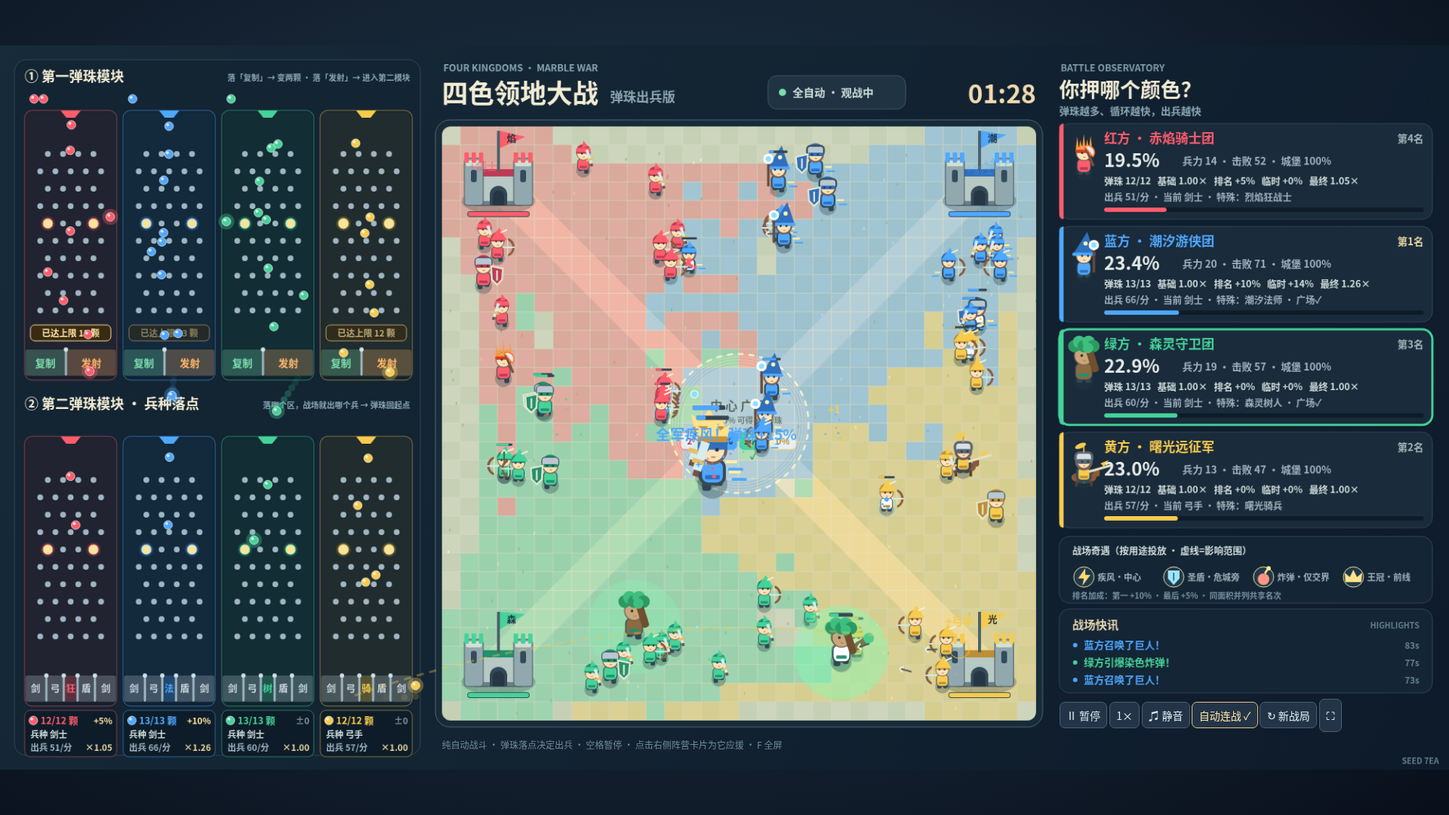
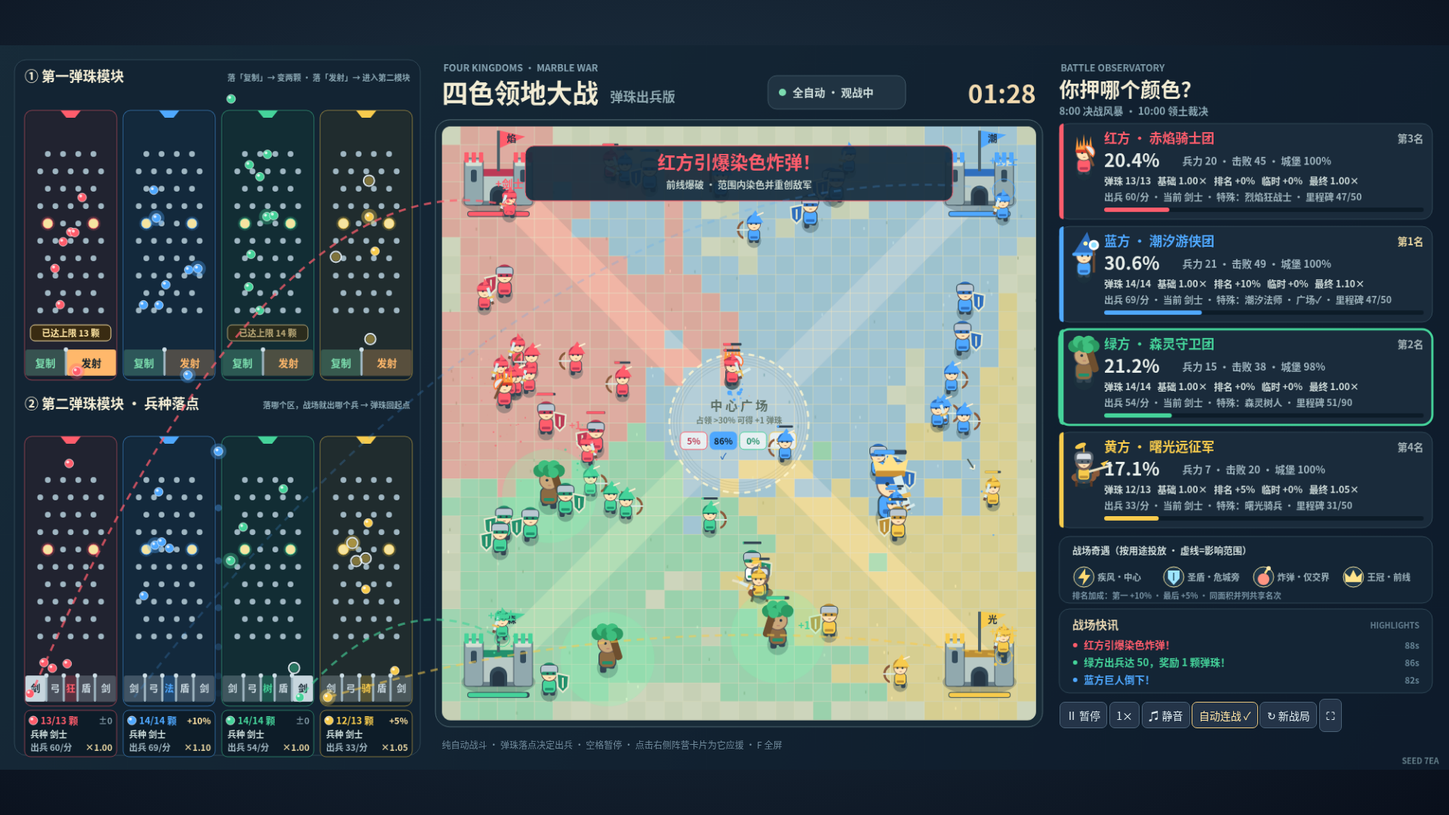
复制冷却、出兵里程碑奖励、决战风暴改到8分钟/裁决10分钟、重新平衡

diff --git a/index.html b/index.html
@@ -14,14 +14,14 @@ const HOME=[[78,78],[742,78],[78,742],[742,742]];
 // ---- Unit roster: 0 剑士 1 弓手 2 盾卫 3 巨人(王冠召唤) 4 = faction special ----
 const TNAME=['剑士','弓手','盾卫','巨人'];
 const SP=[
- {name:'烈焰狂战士',short:'狂战士',hp:80,v:50,dmg:15,range:24,detect:112,cd:.6,desc:'近战 · 溅射灼烧周围敌人'},
- {name:'潮汐法师',short:'法师',hp:44,v:37,dmg:12,range:150,detect:175,cd:1.1,desc:'远程 · 水弹命中减速 45%'},
- {name:'森灵树人',short:'树人',hp:150,v:24,dmg:9,range:26,detect:112,cd:.9,desc:'重装 · 治疗光环 3/秒(不叠加)'},
+ {name:'烈焰狂战士',short:'狂战士',hp:76,v:50,dmg:14,range:24,detect:112,cd:.6,desc:'近战 · 溅射灼烧周围敌人'},
+ {name:'潮汐法师',short:'法师',hp:54,v:38,dmg:14,range:155,detect:178,cd:1.1,desc:'远程 · 水弹命中减速 45%'},
+ {name:'森灵树人',short:'树人',hp:160,v:24,dmg:9,range:26,detect:112,cd:.9,desc:'重装 · 治疗光环 3.2/秒(不叠加)'},
  {name:'曙光骑兵',short:'骑兵',hp:95,v:60,dmg:15,range:24,detect:112,cd:.8,desc:'突击 · 攻城×1.7 · 大范围染色'}];
 function unitName(f,t){return t===4?SP[f].short:TNAME[t]}
 // ---- Marble machine constants (identical geometry for every faction lane = fair) ----
 const LW=127,BR=6,GRAV=1150,VMAX=460,MOD_Y=[70,520],BIN_Y=330,BIN_B=366,PORTX=63.5,PORTY=14,LAUNCH_GAP=.42;
-const HEAL=3,BALL_CAP=12,TEMP_CAP=.30,TEMP_DECAY=.02,PLAZA_R=96,PLAZA_NEED=.30;
+const STORM=480,VERDICT=600,MILES=[20,50,90],HEAL=3,BALL_CAP=12,TEMP_CAP=.30,TEMP_DECAY=.02,PLAZA_R=96,PLAZA_NEED=.30;
 const M1_DIV=[57],M1_NAME=['复制','发射'];
 const M2_DIV=[30,54,73,97],M2_TYPES=[0,1,4,2,0];
 const PEGS=[],ROWS=[];for(let r=0;r<10;r++){ROWS[r]=[];let y=60+r*24,odd=r%2;for(let k=(odd?0:1);k<(odd?5:5);k++){let x=odd?21.5+k*21:11+k*21,bump=r===4&&(k===1||k===4);let p={x,y,r:bump?7:4,bump};PEGS.push(p);ROWS[r].push(p)}}
@@ -40,14 +40,14 @@ function sound(f=440,d=.08,type='sine'){if(muted)return;try{audio ||= new (windo
 function burst(x,y,c,n=12,big=1){for(let i=0;i<n;i++){let a=rng()*6.28,v=(25+rng()*85)*big;particles.push({x,y,vx:Math.cos(a)*v,vy:Math.sin(a)*v,life:.35+rng()*.5,max:1,c,r:2+rng()*3})}}
 function floating(s,x,y,c='#fff',size=18,panel=false){floats.push({s,x,y,c,size,life:1.3,panel})}
 function announce(s,c='#f5ce64',sub=''){banner={s,c,sub,life:3.2};feed.unshift({s,c,t:time});feed=feed.slice(0,6)}
-function logEvent(e){e.t=time;events.push(e);if(events.length>6000)events.shift()}
+function logEvent(e){e.t=time;events.push(e);if(events.length>60000)events.shift()}
 function paint(x,y,f,r=0){let tx=Math.floor(x/T),ty=Math.floor(y/T);for(let dy=-r;dy<=r;dy++)for(let dx=-r;dx<=r;dx++){let a=tx+dx,b=ty+dy;if(a>=0&&b>=0&&a<N&&b<N&&(r===0||dx*dx+dy*dy<=r*r))tiles[b*N+a]=f}}
 function spawn(f,t){if(!teams[f].alive)return null;if(t===undefined)t=pick([0,0,0,1,1,2]);let [x,y]=HOME[f],a=rng()*6.28,s=t===4?SP[f]:null;
 let hp=s?s.hp:[58,38,130,600][t];let u={id:uid++,f,t,x:x+Math.cos(a)*35,y:y+Math.sin(a)*35,hp,max:hp,v:(s?s.v:[42,40,28,26][t])*(.9+rng()*.2),damage:s?s.dmg:[15,11,12,38][t],cd:rng(),phase:rng()*6.28,face:f%2?-1:1,hit:0,swing:0,boost:0,shield:0,slow:0,route:120+rng()*70,goal:null};units.push(u);return u}
 function shuffleBag(){let a=[0,1,2,3];for(let i=3;i>0;i--){let j=Math.floor(rng()*(i+1));[a[i],a[j]]=[a[j],a[i]]}return a}
-function newBall(f){return{f,st:'wait',x:PORTX,y:PORTY,vx:0,vy:0,still:0,age:0,trail:[]}}
+let bid=0;function newBall(f){return{id:bid++,f,st:'wait',x:PORTX,y:PORTY,vx:0,vy:0,still:0,age:0,trail:[]}}
 function reset(s){seed=s??(Date.now()^Math.random()*1e9);state=seed>>>0;units=[];arrows=[];particles=[];floats=[];powers=[];feed=[];beams=[];events=[];bombLog=[];powerBag=[];shieldTurn=0;tiles=new Int8Array(N*N).fill(-1);
-teams=C.map((c,f)=>({f,hp:1550,max:1550,alive:true,land:0,count:0,kills:0,bosses:0,peak:0,comeback:false,cap:BALL_CAP,temp:0,rankBonus:0,rank:1,tie:false,launchCd:f*.1,spawnLog:[],spawned:0,lastType:-1,dups:0,launches:0,plazaBonus:false,plaza:0,capFlash:0,byType:[0,0,0,0,0]}));
+teams=C.map((c,f)=>({f,hp:1550,max:1550,alive:true,land:0,count:0,kills:0,bosses:0,peak:0,comeback:false,cap:BALL_CAP,temp:0,rankBonus:0,rank:1,tie:false,launchCd:f*.1,spawnLog:[],spawned:0,lastType:-1,dups:0,launches:0,plazaBonus:false,miles:0,coolHits:0,plaza:0,capFlash:0,byType:[0,0,0,0,0]}));
 balls=[];for(let f=0;f<4;f++){balls.push(newBall(f),newBall(f))}
 time=0;powerClock=5;mode='intro';intro=4;winner=-1;winClock=0;banner=null;shake=0;paused=false;document.getElementById('pause').textContent='Ⅱ 暂停';
 // Identical starting army for every faction (fair); later troops come only from marbles.
@@ -58,7 +58,7 @@ function census(){for(let t of teams){t.land=0;t.count=0;t.plaza=0}for(let v of 
 function ranking(){let alive=teams.filter(t=>t.alive);for(let t of teams){t.rankBonus=0;t.rank=1+alive.filter(o=>o.land>t.land).length;t.tie=alive.some(o=>o!==t&&o.land===t.land)}if(alive.length<2)return;let mx=Math.max(...alive.map(t=>t.land)),mn=Math.min(...alive.map(t=>t.land));if(mx===mn)return;for(let t of alive){if(t.land===mx)t.rankBonus=.10;else if(t.land===mn)t.rankBonus=.05}}
 function mult(f){let t=teams[f];return(1+t.rankBonus)*(1+t.temp)}
 function damage(u,d,f){if(u.hp<=0)return;u.hp-=d*(u.shield>0?.32:1);u.hit=.15;u.swing=.1;if(u.hp<=0){teams[f].kills++;burst(u.x,u.y,C[u.f],u.t===3?35:8,u.t===3?2:1);if(rng()<.18)floating('+1',u.x,u.y,C[f],14);if(u.t===3){shake=9;announce(NAME[u.f]+'方巨人倒下！',C[u.f])}}}
-function baseDamage(f,d,attacker){let t=teams[f];if(!t.alive)return;t.hp-=d;if(t.hp<=0)eliminate(f,attacker)}
+let noBaseDamage=false;function baseDamage(f,d,attacker){let t=teams[f];if(!t.alive)return;if(noBaseDamage&&(attacker!==-1||noBaseDamage==='all'))return;t.hp-=d;if(t.hp<=0)eliminate(f,attacker)}
 function eliminate(f,attacker){let t=teams[f];if(!t.alive)return;t.alive=false;t.hp=0;for(let i=0;i<tiles.length;i++)if(tiles[i]===f)tiles[i]=-1;for(let u of units)if(u.f===f){u.hp=0;burst(u.x,u.y,C[f],5)}balls=balls.filter(b=>b.f!==f);burst(...HOME[f],C[f],80,2.5);shake=16;announce(NAME[f]+'方出局！',C[f],'城堡已被攻破 · 领地归于中立 · 弹珠熄灭');sound(120,.5,'sawtooth');}
 // ---- Power placement by purpose ----
 const DIRS=[[1,0],[-1,0],[0,1],[0,-1]];
@@ -92,13 +92,13 @@ function moveTo(b,tx,ty,dur,next,kind){let [x,y]=panelPos(b);b.px=x;b.py=y;b.ax=
 function toPort(b,kind){moveTo(b,laneX(b.f)+PORTX,MOD_Y[0]-16,kind==='return'?.8:.45,'wait',kind)}
 function launchBall(b,mod){b.st='m'+(mod+1);b.mod=mod;b.x=PORTX+(rng()-.5)*6;b.y=PORTY;b.vx=(rng()-.5)*90;b.vy=40;b.still=0;b.age=0}
 function landed(b,bin){let t=teams[b.f],f=b.f;b.st='land';b.bin=bin;b.lt=.22;b.lx=b.x;
- if(b.mod===0){if(bin===0){let before=balls.filter(o=>o.f===f).length;if(before<t.cap){let nb=newBall(f);nb.st='land';nb.mod=0;nb.x=b.x;nb.y=b.y;nb.lt=.22;nb.bin=0;nb.child=true;balls.push(nb);t.dups++;floating('复制 +1',laneX(f)+b.x,MOD_Y[0]+BIN_Y-10,C[f],16,true);sound(900,.06)}else{t.capFlash=1.6}logEvent({kind:'dup',f,x:b.x,bin,before,after:balls.filter(o=>o.f===f).length,cap:t.cap})}
+ if(b.mod===0){if(bin===0&&b.cool){t.coolHits++;floating('冷却中',laneX(f)+b.x,MOD_Y[0]+BIN_Y-10,'#9fb6c2',13,true);logEvent({kind:'coolBlock',id:b.id,f,x:b.x,bin,balls:balls.filter(o=>o.f===f).length})}else if(bin===0){t._lastChild=null;let before=balls.filter(o=>o.f===f).length;if(before<t.cap){b.cool=true;let nb=newBall(f);nb.st='land';nb.mod=0;nb.x=b.x;nb.y=b.y;nb.lt=.22;nb.bin=0;nb.child=true;nb.cool=true;t._lastChild=nb.id;balls.push(nb);t.dups++;floating('复制 +1',laneX(f)+b.x,MOD_Y[0]+BIN_Y-10,C[f],16,true);sound(900,.06)}else{t.capFlash=1.6}logEvent({kind:'dup',id:b.id,child:t._lastChild,f,x:b.x,bin,cool:!!b.cool,before,after:balls.filter(o=>o.f===f).length,cap:t.cap})}
   else{t.launches++;logEvent({kind:'launch',f,x:b.x,bin,units:units.filter(u=>u.f===f).length,balls:balls.filter(o=>o.f===f).length})}}
- else{let type=M2_TYPES[bin];spawnFromMarble(f,type,b)}}
+ else{let type=M2_TYPES[bin];let wasCool=!!b.cool;b.cool=false;spawnFromMarble(f,type,b);if(wasCool)logEvent({kind:'coolClear',id:b.id,f})}}
 function spawnFromMarble(f,type,b){let t=teams[f],capUnits=time>110?25:32,before=units.filter(u=>u.f===f&&u.hp>0).length,u=null;let [px,py]=[laneX(f)+b.x,MOD_Y[1]+BIN_B-6];
- if(t.alive&&before<capUnits){u=spawn(f,type);t.spawned++;t.spawnLog.push(time);t.byType[type]++;t.count++;beams.push({f,x:px,y:py,mx:u.x,my:u.y,life:.75,type});burst(u.x,u.y,C[f],10);floating('+'+unitName(f,type),u.x,u.y-22,C[f],15)}
+ if(t.alive&&before<capUnits){u=spawn(f,type);t.spawned++;if(MILES.includes(t.spawned)){t.cap++;t.miles++;let nb=newBall(f);nb.flash=2;balls.push(nb);announce(NAME[f]+'方出兵达 '+t.spawned+'，奖励 1 颗弹珠！',C[f],'里程碑奖励 · 弹珠上限 +1');logEvent({kind:'mile',f,n:t.spawned,balls:balls.filter(o=>o.f===f).length,cap:t.cap})}t.spawnLog.push(time);t.byType[type]++;t.count++;beams.push({f,x:px,y:py,mx:u.x,my:u.y,life:.75,type});burst(u.x,u.y,C[f],10);floating('+'+unitName(f,type),u.x,u.y-22,C[f],15)}
  else floating('兵力已满',px,py-30,'#ffe6a3',13,true);
- t.lastType=type;logEvent({kind:'spawn',f,x:b.x,bin:b.bin,type,before,after:units.filter(v=>v.f===f&&v.hp>0).length,spawned:!!u})}
+ t.lastType=type;logEvent({kind:'spawn',id:b.id,f,x:b.x,bin:b.bin,type,before,after:units.filter(v=>v.f===f&&v.hp>0).length,spawned:!!u})}
 function updateMarbles(dt){for(let t of teams){if(!t.alive)continue;t.temp=Math.max(0,t.temp-TEMP_DECAY*dt);t.capFlash-=dt;t.spawnLog=t.spawnLog.filter(s=>time-s<20);t.launchCd-=dt*mult(t.f);if(t.launchCd<=0){let w=balls.find(b=>b.f===t.f&&b.st==='wait');if(w){launchBall(w,0);t.launchCd=LAUNCH_GAP}else t.launchCd=0}}
  for(let b of [...balls]){let h=dt*mult(b.f);b.flash=(b.flash||0)-dt;
   if(b.st==='m1'||b.st==='m2'){b.age+=h;let [ox,oy]=[b.x,b.y];let bin=physics(b,h,b.mod?M2_DIV:M1_DIV);
@@ -112,8 +112,8 @@ function updateMarbles(dt){for(let t of teams){if(!t.alive)continue;t.temp=Math.
 function movePos(b,k){if(b.kind==='return'||b.kind==='dupReturn'){let rail=laneX(b.f)+LW+4.5;if(k<.15){let e=k/.15;b.px=b.ax+(rail-b.ax)*e;b.py=b.ay}else if(k<.85){let e=(k-.15)/.7;b.px=rail;b.py=b.ay+(b.by-b.ay)*e*e*(3-2*e)}else{let e=(k-.85)/.15;b.px=rail+(b.bx-rail)*e;b.py=b.by}}else{let e=k*k*(3-2*k);b.px=b.ax+(b.bx-b.ax)*e;b.py=b.ay+(b.by-b.ay)*e}}
 function plazaCheck(){let n=PLAZA.length;for(let t of teams){if(!t.alive||t.plazaBonus)continue;if(t.plaza/n>PLAZA_NEED){t.plazaBonus=true;t.cap+=1;let nb=newBall(t.f);balls.push(nb);nb.flash=2;logEvent({kind:'plaza',f:t.f,share:t.plaza/n,balls:balls.filter(b=>b.f===t.f).length});announce(NAME[t.f]+'方占领中心广场！',C[t.f],'永久获得 +1 颗弹珠（每局限一次）');burst(410,410,C[t.f],40,1.8);sound(990,.3,'triangle')}}}
 function update(dt){if(paused)return;if(mode==='intro'){intro-=dt;if(intro<=0){mode='battle';announce('四王之争 · 开战！','#f5ce64','弹珠落点决定兵种 → 占领地盘 → 攻破城堡')}return}if(mode==='win'){winClock+=dt;effects(dt);if(auto&&winClock>10)reset();return}
-time+=dt;noiseClock-=dt;census();ranking();plazaCheck();updateMarbles(dt);let alive=teams.filter(t=>t.alive);for(let t of alive){t.peak=Math.max(t.peak,t.land);if(t.peak>240&&t.land<t.peak*.5)t.comeback=true;if(t.comeback&&t.land>t.peak*.85){announce(NAME[t.f]+'方大逆转！',C[t.f],'绝境反击 · 领土重回巅峰');t.comeback=false}if(time>100){let lead=Math.max(...alive.map(a=>a.land));let pressure=(time-100)*1.25*(.65+(lead-t.land)/900);baseDamage(t.f,dt*pressure,-1)}}
-if(time>=165){let candidates=teams.filter(t=>t.alive).sort((a,b)=>(b.hp+b.land*2+b.count*7)-(a.hp+a.land*2+a.count*7));if(candidates.length>1){for(let i=1;i<candidates.length;i++)eliminate(candidates[i].f,candidates[0].f)}}
+time+=dt;noiseClock-=dt;census();ranking();plazaCheck();updateMarbles(dt);let alive=teams.filter(t=>t.alive);for(let t of alive){t.peak=Math.max(t.peak,t.land);if(t.peak>240&&t.land<t.peak*.5)t.comeback=true;if(t.comeback&&t.land>t.peak*.85){announce(NAME[t.f]+'方大逆转！',C[t.f],'绝境反击 · 领土重回巅峰');t.comeback=false}if(time>STORM){let lead=Math.max(...alive.map(a=>a.land));let pressure=(time-STORM)*1.25*(.65+(lead-t.land)/900);baseDamage(t.f,dt*pressure,-1)}}
+if(time>=VERDICT){let candidates=teams.filter(t=>t.alive).sort((a,b)=>(b.hp+b.land*2+b.count*7)-(a.hp+a.land*2+a.count*7));if(candidates.length>1){for(let i=1;i<candidates.length;i++)eliminate(candidates[i].f,candidates[0].f)}}
 powerClock-=dt;if(powerClock<=0&&powers.length<5){spawnPower();powerClock=5+rng()*3}for(let p of powers)p.life-=dt;powers=powers.filter(p=>p.life>0);
 // Spatial buckets keep combat smooth even on modest laptops.
 const buckets=new Map();for(let u of units){if(u.hp<=0)continue;let k=(u.x/100|0)+','+(u.y/100|0);if(!buckets.has(k))buckets.set(k,[]);buckets.get(k).push(u)}
@@ -125,12 +125,12 @@ let power=powers.reduce((a,b)=>!a||dist(u,b)<dist(u,a)?b:a,null);
 let goal;if(target){goal=target}else if(power&&dist(u,power)<200){goal=power}else if(bd<160||time>85){goal=basePoint}else{if(!u.goal||dist(u,u.goal)<25||rng()<dt*.1){let angle=rng()*6.28;u.goal={x:410+Math.cos(angle)*u.route,y:410+Math.sin(angle)*u.route};if(rng()<.35)u.goal=basePoint}goal=u.goal}
 let dx=goal.x-u.x,dy=goal.y-u.y,d=Math.hypot(dx,dy)||1;
 let attack=target&&ed<range;let hitBase=!target&&bd<(ranged?125:62);
-if((attack||hitBase)&&u.cd<=0){u.cd=sp?sp.cd:u.t===3?1.1:u.t===1?.95:.65;u.swing=.25;if(attack){if(ranged)arrows.push({x:u.x,y:u.y,target,damage:u.damage,f:u.f,life:1.8,orb:!!sp});else{damage(target,u.damage,u.f);target.x=clamp(target.x+dx/d*3,18,802);target.y=clamp(target.y+dy/d*3,18,802);if(u.t===3||(sp&&u.f===0)){burst(target.x,target.y,u.t===3?'#fff1b9':'#ff9a5c',8);for(let v of units)if(v!==target&&v.f!==u.f&&dist(v,target)<(u.t===3?34:34))damage(v,u.t===3?15:9,u.f)}}}else{baseDamage(base.f,u.damage*(u.t===3?2.8:sp&&u.f===3?2.55:1.5),u.f);burst(basePoint.x+(rng()-.5)*50,basePoint.y,'#fce1b2',3);if(rng()<.1)floating('−'+Math.round(u.damage*1.5),basePoint.x,basePoint.y-40,'#fff',15)}if(noiseClock<=0){sound(180+rng()*150,.035,'triangle');noiseClock=.15}}
+if((attack||hitBase)&&u.cd<=0){u.cd=sp?sp.cd:u.t===3?1.1:u.t===1?.95:.65;u.swing=.25;if(attack){if(ranged)arrows.push({x:u.x,y:u.y,target,damage:u.damage,f:u.f,life:1.8,orb:!!sp});else{damage(target,u.damage,u.f);target.x=clamp(target.x+dx/d*3,18,802);target.y=clamp(target.y+dy/d*3,18,802);if(u.t===3||(sp&&u.f===0)){burst(target.x,target.y,u.t===3?'#fff1b9':'#ff9a5c',8);for(let v of units)if(v!==target&&v.f!==u.f&&dist(v,target)<(u.t===3?34:34))damage(v,u.t===3?15:6,u.f)}}}else{baseDamage(base.f,u.damage*(u.t===3?2.8:sp&&u.f===3?2.55:1.5),u.f);burst(basePoint.x+(rng()-.5)*50,basePoint.y,'#fce1b2',3);if(rng()<.1)floating('−'+Math.round(u.damage*1.5),basePoint.x,basePoint.y-40,'#fff',15)}if(noiseClock<=0){sound(180+rng()*150,.035,'triangle');noiseClock=.15}}
 if(!attack&&!hitBase){let v=u.v*(u.boost>0?1.7:1)*(time>85?1.2:1)*(u.slow>0?.55:1);u.x=clamp(u.x+dx/d*v*dt,14,806);u.y=clamp(u.y+dy/d*v*dt,14,806);if(Math.abs(dx)>.5)u.face=dx>0?1:-1}
 paint(u.x,u.y,u.f,u.t===3||(sp&&u.f===3)?1:0);for(let p of powers)if(p.life>0&&dist(u,p)<25+(u.t===3?12:0)){collect(u,p);p.life=0}
 }
 for(let a of arrows){a.life-=dt;if(a.target.hp<=0){a.life=0;continue}let dx=a.target.x-a.x,dy=a.target.y-a.y,d=Math.hypot(dx,dy);a.angle=Math.atan2(dy,dx);if(d<12){damage(a.target,a.damage,a.f);if(a.orb)a.target.slow=2;burst(a.x,a.y,C[a.f],3);a.life=0}else{a.x+=dx/d*320*dt;a.y+=dy/d*320*dt}}arrows=arrows.filter(a=>a.life>0);units=units.filter(u=>u.hp>0);effects(dt);
-if(time>100&&Math.floor((time-dt)/10)!==Math.floor(time/10)&&time<150)announce('决战风暴 · 城堡持续失血','#f7b56b','领土越少，风暴侵蚀越强');
+if(time>STORM&&Math.floor((time-dt)/10)!==Math.floor(time/10)&&time<STORM+50)announce('决战风暴 · 城堡持续失血','#f7b56b','领土越少，风暴侵蚀越强');
 units=units.filter(u=>u.hp>0&&teams[u.f].alive);census();alive=teams.filter(t=>t.alive);if(alive.length<=1){winner=alive.length?alive[0].f:teams.reduce((a,b)=>a.land>b.land?a:b).f;mode='win';winClock=0;announce(NAME[winner]+'方夺冠！',C[winner],'这一次，你押对了吗？');sound(880,.6,'triangle');for(let i=0;i<8;i++)burst(rng()*820,rng()*820,C[winner],20,2)}
 }
 function effects(dt){shake=Math.max(0,shake-dt*25);for(let p of particles){p.life-=dt;p.x+=p.vx*dt;p.y+=p.vy*dt;p.vy+=95*dt;p.vx*=1-dt*2}particles=particles.filter(p=>p.life>0);for(let f of floats){f.life-=dt;f.y-=dt*22}floats=floats.filter(f=>f.life>0);for(let b of beams)b.life-=dt;beams=beams.filter(b=>b.life>0);if(banner)banner.life-=dt;}
@@ -177,7 +177,7 @@ for(let u of [...units].sort((a,b)=>a.y-b.y))person(u);
 for(let a of arrows){ctx.save();ctx.translate(a.x,a.y);ctx.rotate(a.angle||0);if(a.orb){circle(ctx,0,0,5,'#8fe0ff','#ffffff')}else{line(-9,0,8,0,'#4c5a54',2);line(8,0,3,-4,'#f5f3d9',2);line(8,0,3,4,'#f5f3d9',2)}ctx.restore()}
 for(let p of particles){ctx.globalAlpha=clamp(p.life*2,0,1);circle(ctx,p.x,p.y,p.r*p.life,p.c)}ctx.globalAlpha=1;
 for(let f of floats){if(f.panel)continue;ctx.globalAlpha=Math.min(1,f.life*2);text(f.s,f.x,f.y,f.size,f.c,'center',900)}ctx.globalAlpha=1;
-if(time>100&&mode==='battle'){ctx.lineWidth=10;ctx.strokeStyle='#ec926f'+Math.floor((.3+.1*Math.sin(time*3))*255).toString(16).padStart(2,'0');ctx.strokeRect(4,4,812,812)}ctx.restore();
+if(time>STORM&&mode==='battle'){ctx.lineWidth=10;ctx.strokeStyle='#ec926f'+Math.floor((.3+.1*Math.sin(time*3))*255).toString(16).padStart(2,'0');ctx.strokeRect(4,4,812,812)}ctx.restore();
 drawBanner();overlay();if(paused){rr(ctx,330,380,160,60,14,'#122b3dee','#9ab8bf');text('Ⅱ 已暂停',410,418,24,'#e8dcc0','center')}ctx.restore();}
 // ---- Marble panel (local 560x960) ----
 function binRange(divs,i){let xs=[0,...divs,LW];return[xs[i],xs[i+1]]}
@@ -190,14 +190,14 @@ let n=divs.length+1;for(let i=0;i<n;i++){let [a,b]=binRange(divs,i);let lab,col;
 for(let d of divs){rr(ctx,d-1.5,BIN_Y,3,BIN_B-BIN_Y,1,'#9fb6c2');circle(ctx,d,BIN_Y,3,'#cfe0e8')}
 if(m===0&&t.capFlash>0){ctx.globalAlpha=Math.min(1,t.capFlash);rr(ctx,8,BIN_Y-34,LW-16,22,6,'#3b2c10ee','#ffe6a3');text('已达上限 '+t.cap+' 颗',LW/2,BIN_Y-18,12,'#ffe6a3','center',900)}
 ctx.restore()}
-function drawBall(x,y,f,alpha=1,glow=false){ctx.globalAlpha=alpha;if(glow)circle(ctx,x,y,BR+5,C[f]+'55');circle(ctx,x,y,BR,C[f],'#ffffffaa');circle(ctx,x-2,y-2,2,'#ffffffcc');ctx.globalAlpha=1}
+function drawBall(x,y,f,alpha=1,glow=false,cool=false){ctx.globalAlpha=alpha;if(glow)circle(ctx,x,y,BR+5,C[f]+'55');if(cool){ctx.globalAlpha=alpha*.45;circle(ctx,x,y,BR,C[f]);ctx.globalAlpha=alpha;ctx.lineWidth=2;circle(ctx,x,y,BR+1.5,null,'#dfe9ee');ctx.lineWidth=1;return}circle(ctx,x,y,BR,C[f],'#ffffffaa');circle(ctx,x-2,y-2,2,'#ffffffcc');ctx.globalAlpha=1}
 function drawPanel(){ctx.save();ctx.translate(P.x,P.y);ctx.scale(P.k,P.k);rr(ctx,0,0,560,960,16,'#132433','#304857');
 text('① 第一弹珠模块',14,30,19,'#f2ecd4','left',900);text('落「复制」→ 变两颗 · 落「发射」→ 进入第二模块',546,29,11,'#8aa7b3','right');
 text('② 第二弹珠模块 · 兵种落点',14,MOD_Y[1]-38,19,'#f2ecd4','left',900);text('落哪个区，战场就出哪个兵 → 弹珠回起点',546,MOD_Y[1]-39,11,'#8aa7b3','right');
 for(let m=0;m<2;m++)for(let f=0;f<4;f++)drawLane(f,m);
 // hoppers (waiting balls)
-for(let f=0;f<4;f++){let w=balls.filter(b=>b.f===f&&b.st==='wait'),n=w.length,sp=Math.min(13,(LW-14)/Math.max(1,n));w.forEach((b,i)=>drawBall(laneX(f)+7+BR+i*sp,MOD_Y[0]-16,f,1,b.flash>0))}
-for(let b of balls){if(b.st==='wait')continue;if(b.trail)b.trail.forEach((p,i)=>{ctx.globalAlpha=i/16;circle(ctx,p[0],p[1],BR*.8,C[b.f])});ctx.globalAlpha=1;let [x,y]=panelPos(b);drawBall(x,y,b.f,1,b.st==='move'||b.flash>0)}
+for(let f=0;f<4;f++){let w=balls.filter(b=>b.f===f&&b.st==='wait'),n=w.length,sp=Math.min(13,(LW-14)/Math.max(1,n));w.forEach((b,i)=>drawBall(laneX(f)+7+BR+i*sp,MOD_Y[0]-16,f,1,b.flash>0,b.cool))}
+for(let b of balls){if(b.st==='wait')continue;if(b.trail)b.trail.forEach((p,i)=>{ctx.globalAlpha=i/16;circle(ctx,p[0],p[1],BR*.8,C[b.f])});ctx.globalAlpha=1;let [x,y]=panelPos(b);drawBall(x,y,b.f,1,b.st==='move'||b.flash>0,b.cool)}
 for(let f of floats){if(!f.panel)continue;ctx.globalAlpha=Math.min(1,f.life*2);text(f.s,f.x,f.y,f.size,f.c,'center',900)}ctx.globalAlpha=1;
 // per-faction stats under the lanes
 for(let f=0;f<4;f++){let t=teams[f],x=laneX(f),y=MOD_Y[1]+BIN_B+12,nb=balls.filter(b=>b.f===f).length;ctx.globalAlpha=t.alive?1:.4;rr(ctx,x,y,LW,64,8,'#0d1c28',C[f]+'88');drawBall(x+12,y+14,f);text(nb+'/'+t.cap+' 颗',x+22,y+19,13,C[f],'left',900);text(t.rankBonus?'+'+Math.round(t.rankBonus*100)+'%':'±0',x+LW-6,y+19,12,t.rankBonus?'#ffe3a3':'#7f97a3','right',900);text('兵种 '+(t.lastType<0?'—':unitName(f,t.lastType)),x+8,y+38,12,'#cfdfdd');text('出兵 '+(t.spawnLog.length*3)+'/分',x+8,y+56,12,'#9eb4bf');text('×'+mult(f).toFixed(2),x+LW-6,y+56,12,'#e8d5a1','right',700);ctx.globalAlpha=1}
@@ -205,16 +205,16 @@ ctx.restore()}
 function drawBeams(){for(let b of beams){let a=Math.min(1,b.life/.75);let x1=P.x+b.x*P.k,y1=P.y+b.y*P.k,x2=B.x+b.mx*B.k,y2=B.y+b.my*B.k;ctx.save();ctx.globalAlpha=a*.85;ctx.strokeStyle=C[b.f];ctx.lineWidth=3;ctx.setLineDash([10,8]);ctx.lineDashOffset=-b.life*80;ctx.beginPath();ctx.moveTo(x1,y1);ctx.quadraticCurveTo((x1+x2)/2,Math.min(y1,y2)-80,x2,y2);ctx.stroke();ctx.restore();circle(ctx,x2,y2,10*(1.4-a)+4,null,C[b.f])}}
 function drawHeader(x,y,w){ctx.save();ctx.translate(x,y);text('FOUR KINGDOMS · MARBLE WAR',2,22,13,'#87a5b4','left',700);text('四色领地大战',0,66,36,'#f2ecd4','left',900);text('弹珠出兵版',232,64,18,'#8ba5ad');rr(ctx,w-370,28,190,46,12,'#203342','#405866');circle(ctx,w-350,51,5,mode==='battle'?'#7cdbb0':'#f2cf77');text(mode==='win'?'本局已结束':mode==='intro'?'集结倒计时':'全自动 · 观战中',w-336,57,15,'#cfdfdd');let mm=String(Math.floor(time/60)).padStart(2,'0'),ss=String(Math.floor(time%60)).padStart(2,'0');text(mm+':'+ss,w,66,35,'#f1dab0','right',700);ctx.restore()}
 // ---- Right HUD: faction cards (local 515 x 660) ----
-function drawCards(){text('BATTLE OBSERVATORY',2,22,13,'#7e9ba9');text('你押哪个颜色？',0,58,28,'#f2ecd4','left',900);text(mode==='win'?'王者已诞生 · 下一局再战':time>100?'决战风暴正在侵蚀城堡':'弹珠越多、循环越快，出兵越快',0,82,14,time>100?'#f2ad7c':'#8aa7b3');
+function drawCards(){text('BATTLE OBSERVATORY',2,22,13,'#7e9ba9');text('你押哪个颜色？',0,58,28,'#f2ecd4','left',900);text(mode==='win'?'王者已诞生 · 下一局再战':time>STORM?'决战风暴正在侵蚀城堡':'8:00 决战风暴 · 10:00 领土裁决',0,82,14,time>100?'#f2ad7c':'#8aa7b3');
 for(let f=0;f<4;f++){let t=teams[f],y=94+f*142,nb=balls.filter(b=>b.f===f).length,m=mult(f);ctx.globalAlpha=t.alive?1:.45;rr(ctx,0,y,515,132,14,'#1a2b3b',cheer===f?C[f]:'#304857');if(cheer===f){ctx.lineWidth=3;rr(ctx,0,y,515,132,14,null,C[f]);ctx.lineWidth=1}rr(ctx,0,y,6,132,[14,0,0,14],C[f]);person({x:34,y:y+58,f,t:4,phase:time*3,face:1,hp:1,max:1,hit:0,swing:0,boost:0,shield:0,slow:0},true);
 text(NAME[f]+'方 · '+LEGION[f],62,y+27,18,C[f],'left',900);text(!t.alive?'已出局':('第'+t.rank+'名'+(t.tie?'(并列)':'')),503,y+26,14,t.alive&&t.rank===1?'#e8d5a1':'#a5b4b8','right',700);
 text((t.land/N/N*100).toFixed(1)+'%',62,y+60,25,'#e5ece8','left',800);text('兵力 '+t.count+' · 击败 '+t.kills+' · 城堡 '+Math.ceil(t.hp/t.max*100)+'%',170,y+57,14,'#9eb4bf');
 text('弹珠 '+nb+'/'+t.cap+'   基础 1.00×   排名 +'+Math.round(t.rankBonus*100)+'%   临时 +'+Math.round(t.temp*100)+'%   最终 '+m.toFixed(2)+'×',62,y+84,13,'#cfdcda');
-text('出兵 '+(t.spawnLog.length*3)+'/分 · 当前 '+(t.lastType<0?'—':unitName(f,t.lastType))+' · 特殊：'+SP[f].name+(t.plazaBonus?' · 广场✓':''),62,y+106,13,'#9cb2bb');
+text('出兵 '+(t.spawnLog.length*3)+'/分 · 当前 '+(t.lastType<0?'—':unitName(f,t.lastType))+' · 特殊：'+SP[f].name+(t.plazaBonus?' · 广场✓':'')+' · 里程碑 '+(MILES.find(m=>m>t.spawned)?t.spawned+'/'+MILES.find(m=>m>t.spawned):'已满'),62,y+106,13,'#9cb2bb');
 rr(ctx,62,y+116,441,6,3,'#0d1c28');rr(ctx,62,y+116,441*t.land/N/N,6,3,C[f]);ctx.globalAlpha=1}}
 function drawFeed(h=122){rr(ctx,0,0,515,h,14,'#142535','#304857');text('战场快讯',18,28,16,'#e7d6b2');text('HIGHLIGHTS',497,27,11,'#657f90','right');if(!feed.length)text('四支军团集结完毕，弹珠即将发射…',18,62,15,'#8ea9b6');feed.slice(0,Math.floor((h-36)/24)).forEach((v,i)=>{circle(ctx,22,50+i*24,3,v.c);text(v.s,34,55+i*24,14,v.c);text(String(Math.floor(v.t))+'s',497,55+i*24,12,'#678596','right')})}
 function drawInfo(){rr(ctx,0,0,515,92,14,'#142535','#304857');text('战场奇遇（按用途投放 · 虚线=影响范围）',18,24,13,'#cfdcda');let labels=['疾风·中心','圣盾·危城旁','炸弹·仅交界','王冠·前线'];for(let i=0;i<4;i++){let x=34+i*124;powerIcon(i,x,56,14);text(labels[i],x+19,61,12,'#9cb2bb')}text('排名加成：第一 +10% · 最后 +5% · 同面积并列共享名次',18,86,11,'#7893a4')}
-function drawRules(){rr(ctx,0,0,487,300,14,'#142535','#304857');let L=['玩法规则','· 每方开局 2 颗弹珠，自动发射','· 第一模块：落「复制」变两颗，落「发射」进第二模块','· 第二模块：落点决定兵种，出兵后弹珠回起点','· 单方弹珠上限 '+BALL_CAP+' 颗（广场奖励 +1）','· 中心广场占 >30% 永久 +1 弹珠，每局一次','· 第一名 +10%、最后一名 +5% 弹珠速度','· 并列共享名次；全部并列不加成','· 疾风临时 +15%，上限 30%，每秒 −2%'];L.forEach((s,i)=>text(s,16,30+i*31,i?14:17,i?'#9cb2bb':'#e7d6b2','left',i?500:800))}
+function drawRules(){rr(ctx,0,0,487,300,14,'#142535','#304857');let L=['玩法规则','· 每方开局 2 颗弹珠，自动发射','· 第一模块：落「复制」变两颗，落「发射」进第二模块','· 第二模块：落点决定兵种，出兵后弹珠回起点','· 复制上限 '+BALL_CAP+' 颗；广场/里程碑奖励各 +1','· 复制后两颗都冷却，完成一次出兵才可再复制','· 第一名 +10%、最后一名 +5% 弹珠速度','· 出兵 20/50/90 各奖励 1 颗 · 广场>30% +1','· 8:00 决战风暴 · 10:00 领土裁决'];L.forEach((s,i)=>text(s,16,30+i*31,i?14:17,i?'#9cb2bb':'#e7d6b2','left',i?500:800))}
 function drawBanner(){if(!banner||banner.life<=0||mode!=='battle')return;let a=Math.min(1,banner.life*2,(3.2-banner.life)*4);ctx.save();ctx.globalAlpha=Math.max(0,a);let x=115,y=27;rr(ctx,x,y,590,76,12,'#152b3bea',banner.c);text(banner.s,x+295,y+32,25,banner.c,'center',900);text(banner.sub,x+295,y+58,13,'#c3d1cc','center');ctx.restore()}
 function overlay(){if(mode!=='intro'&&mode!=='win')return;ctx.save();ctx.fillStyle='#0a1a28bb';ctx.fillRect(0,0,820,820);let cx=410,cy=410;rr(ctx,cx-293,cy-200,586,400,24,'#172d3cf5',mode==='win'?C[winner]:'#849c9c');if(mode==='intro'){text('THE COLOR CROWN',cx,cy-151,15,'#b3a586','center');text('四王之争',cx,cy-94,46,'#f3e6bc','center',900);text('你押哪个颜色？',cx,cy-50,23,'#c3d5d8','center');for(let f=0;f<4;f++){person({x:cx-180+f*120,y:cy+24,f,t:4,phase:0,face:1,hp:1,max:1,hit:0,swing:0,boost:0,shield:0,slow:0},true);text(NAME[f]+'方 · '+SP[f].short,cx-180+f*120,cy+66,16,C[f],'center')}text(Math.max(1,Math.ceil(intro))+' 秒后自动开战',cx,cy+118,24,'#f0d186','center');text('弹珠全自动 · 点击画面立即开战',cx,cy+159,14,'#8eaab8','center')}
 else{powerIcon(3,cx,cy-139,28);text(NAME[winner]+'方夺冠！',cx,cy-71,47,C[winner],'center',900);text(['赤焰不灭，征服全场。','潮起之时，无人可挡。','万物生长，终成王国。','破晓之光，照耀疆土。'][winner],cx,cy-26,20,'#e1decb','center');text('用时 '+Math.floor(time)+' 秒  ·  击败 '+teams[winner].kills+'  ·  领土 '+(teams[winner].land/N/N*100).toFixed(1)+'%',cx,cy+25,17,'#a7bfca','center');text(cheer<0?'这一次，你押对了吗？':cheer===winner?'你支持的军团赢了！':'下一局，能否逆风翻盘？',cx,cy+76,25,'#f3d994','center');text(auto?Math.max(0,Math.ceil(10-winClock))+' 秒后开启新一轮 · 点击立即重开':'点击立即重开 · 自动连战已关闭',cx,cy+139,16,'#8eaab8','center')}
@@ -232,8 +232,8 @@ document.getElementById('pause').onclick=togglePause;document.getElementById('sp
 canvas.onclick=e=>{let rect=canvas.getBoundingClientRect(),x=(e.clientX-rect.left)/rect.width*W,y=(e.clientY-rect.top)/rect.height*H;let lx=(x-HUD.x)/HUD.k,ly=(y-HUD.y)/HUD.k;if(lx>0&&lx<515&&ly>94&&ly<94+4*142){cheer=clamp(Math.floor((ly-94)/142),0,3);return}if(mode==='intro'){mode='battle';announce('四王之争 · 开战！','#f5ce64','选择你支持的军团，见证最后的王者')}else if(mode==='win')reset()};
 addEventListener('resize',layout);
 // Read-only state plus deterministic stepping for automated QA / local demonstrations.
-window.demo={getState:()=>({mode,time,winner,seed:state,paused,speed,teams:teams.map(t=>({f:t.f,alive:t.alive,hp:t.hp,land:t.land,count:t.count,kills:t.kills,cap:t.cap,temp:t.temp,rankBonus:t.rankBonus,rank:t.rank,mult:mult(t.f),balls:balls.filter(b=>b.f===t.f).length,spawned:t.spawned,dups:t.dups,launches:t.launches,plazaBonus:t.plazaBonus,plaza:t.plaza,byType:[...t.byType]})),units:units.length,powers:powers.length}),
+window.demo={getState:()=>({mode,time,winner,seed:state,paused,speed,teams:teams.map(t=>({f:t.f,alive:t.alive,hp:t.hp,land:t.land,count:t.count,kills:t.kills,cap:t.cap,miles:t.miles,coolHits:t.coolHits,cooling:balls.filter(b=>b.f===t.f&&b.cool).length,temp:t.temp,rankBonus:t.rankBonus,rank:t.rank,mult:mult(t.f),balls:balls.filter(b=>b.f===t.f).length,spawned:t.spawned,dups:t.dups,launches:t.launches,plazaBonus:t.plazaBonus,plaza:t.plaza,byType:[...t.byType]})),units:units.length,powers:powers.length}),
 reset:s=>reset(s),start:()=>{mode='battle'},step:(seconds)=>{for(let i=0;i<Math.floor(seconds*30);i++)update(1/30);draw()},stepNoDraw:(seconds)=>{for(let i=0;i<Math.floor(seconds*30);i++)update(1/30)},setAuto:v=>auto=v,
-debug:{events:()=>events,bombLog:()=>bombLog,balls:()=>balls.map(b=>({f:b.f,st:b.st,x:b.x,y:b.y,px:b.px,py:b.py,mod:b.mod})),tiles:()=>tiles,PLAZA,M1_DIV,M2_DIV,M2_TYPES,BALL_CAP,SP,powers:()=>powers.map(p=>({...p})),isBorderTile:i=>isBorderTile(i),units:()=>units.map(u=>({f:u.f,t:u.t,hp:u.hp})),layout:()=>({W,H,P,B,HUD,portrait}),addBalls:(f,n)=>{for(let i=0;i<n;i++)balls.push(newBall(f))}}};
+debug:{events:()=>events,bombLog:()=>bombLog,balls:()=>balls.map(b=>({cool:!!b.cool,f:b.f,st:b.st,x:b.x,y:b.y,px:b.px,py:b.py,mod:b.mod})),tiles:()=>tiles,PLAZA,M1_DIV,M2_DIV,M2_TYPES,BALL_CAP,SP,powers:()=>powers.map(p=>({...p})),isBorderTile:i=>isBorderTile(i),units:()=>units.map(u=>({f:u.f,t:u.t,hp:u.hp})),setNoBaseDamage:v=>noBaseDamage=v,layout:()=>({W,H,P,B,HUD,portrait}),addBalls:(f,n)=>{for(let i=0;i<n;i++)balls.push(newBall(f))}}};
 layout();reset();requestAnimationFrame(frame);
 </script></body></html>

diff --git a/README.md b/README.md
@@ -6,7 +6,9 @@
 
 - 左侧弹珠、右侧战场（手机竖屏也保持左右分栏）。
 - 每方开局 2 颗弹珠。第一模块落「复制」变两颗，落「发射」进入第二模块；第二模块的落点决定战场上出什么兵，出兵后弹珠回到起点。
-- 单方弹珠上限 12 颗；中心广场占领 >30% 时永久 +1 颗（每局一次，上限变 13）。
+- 复制上限 12 颗；复制后原球和新球都进入冷却，各自完成一次第二模块出兵后才能再复制。
+- 奖励弹珠：中心广场占领 >30% +1 颗（每局一次）；累计出兵 20/50/90 各 +1 颗；每颗奖励同时把上限 +1。
+- 8:00 开启决战风暴，10:00 领土裁决。
 - 领地第一名弹珠速度 +10%，最后一名 +5%；面积相同则并列共享名次，全部并列时都不加成。
 - 特殊兵种：红·烈焰狂战士（溅射）、蓝·潮汐法师（远程减速）、绿·森灵树人（治疗光环）、黄·曙光骑兵（攻城扩地）。
 - 炸弹只在不同颜色领地交界处出现；加速在中心，圣盾在危急城堡附近，王冠在前线。
